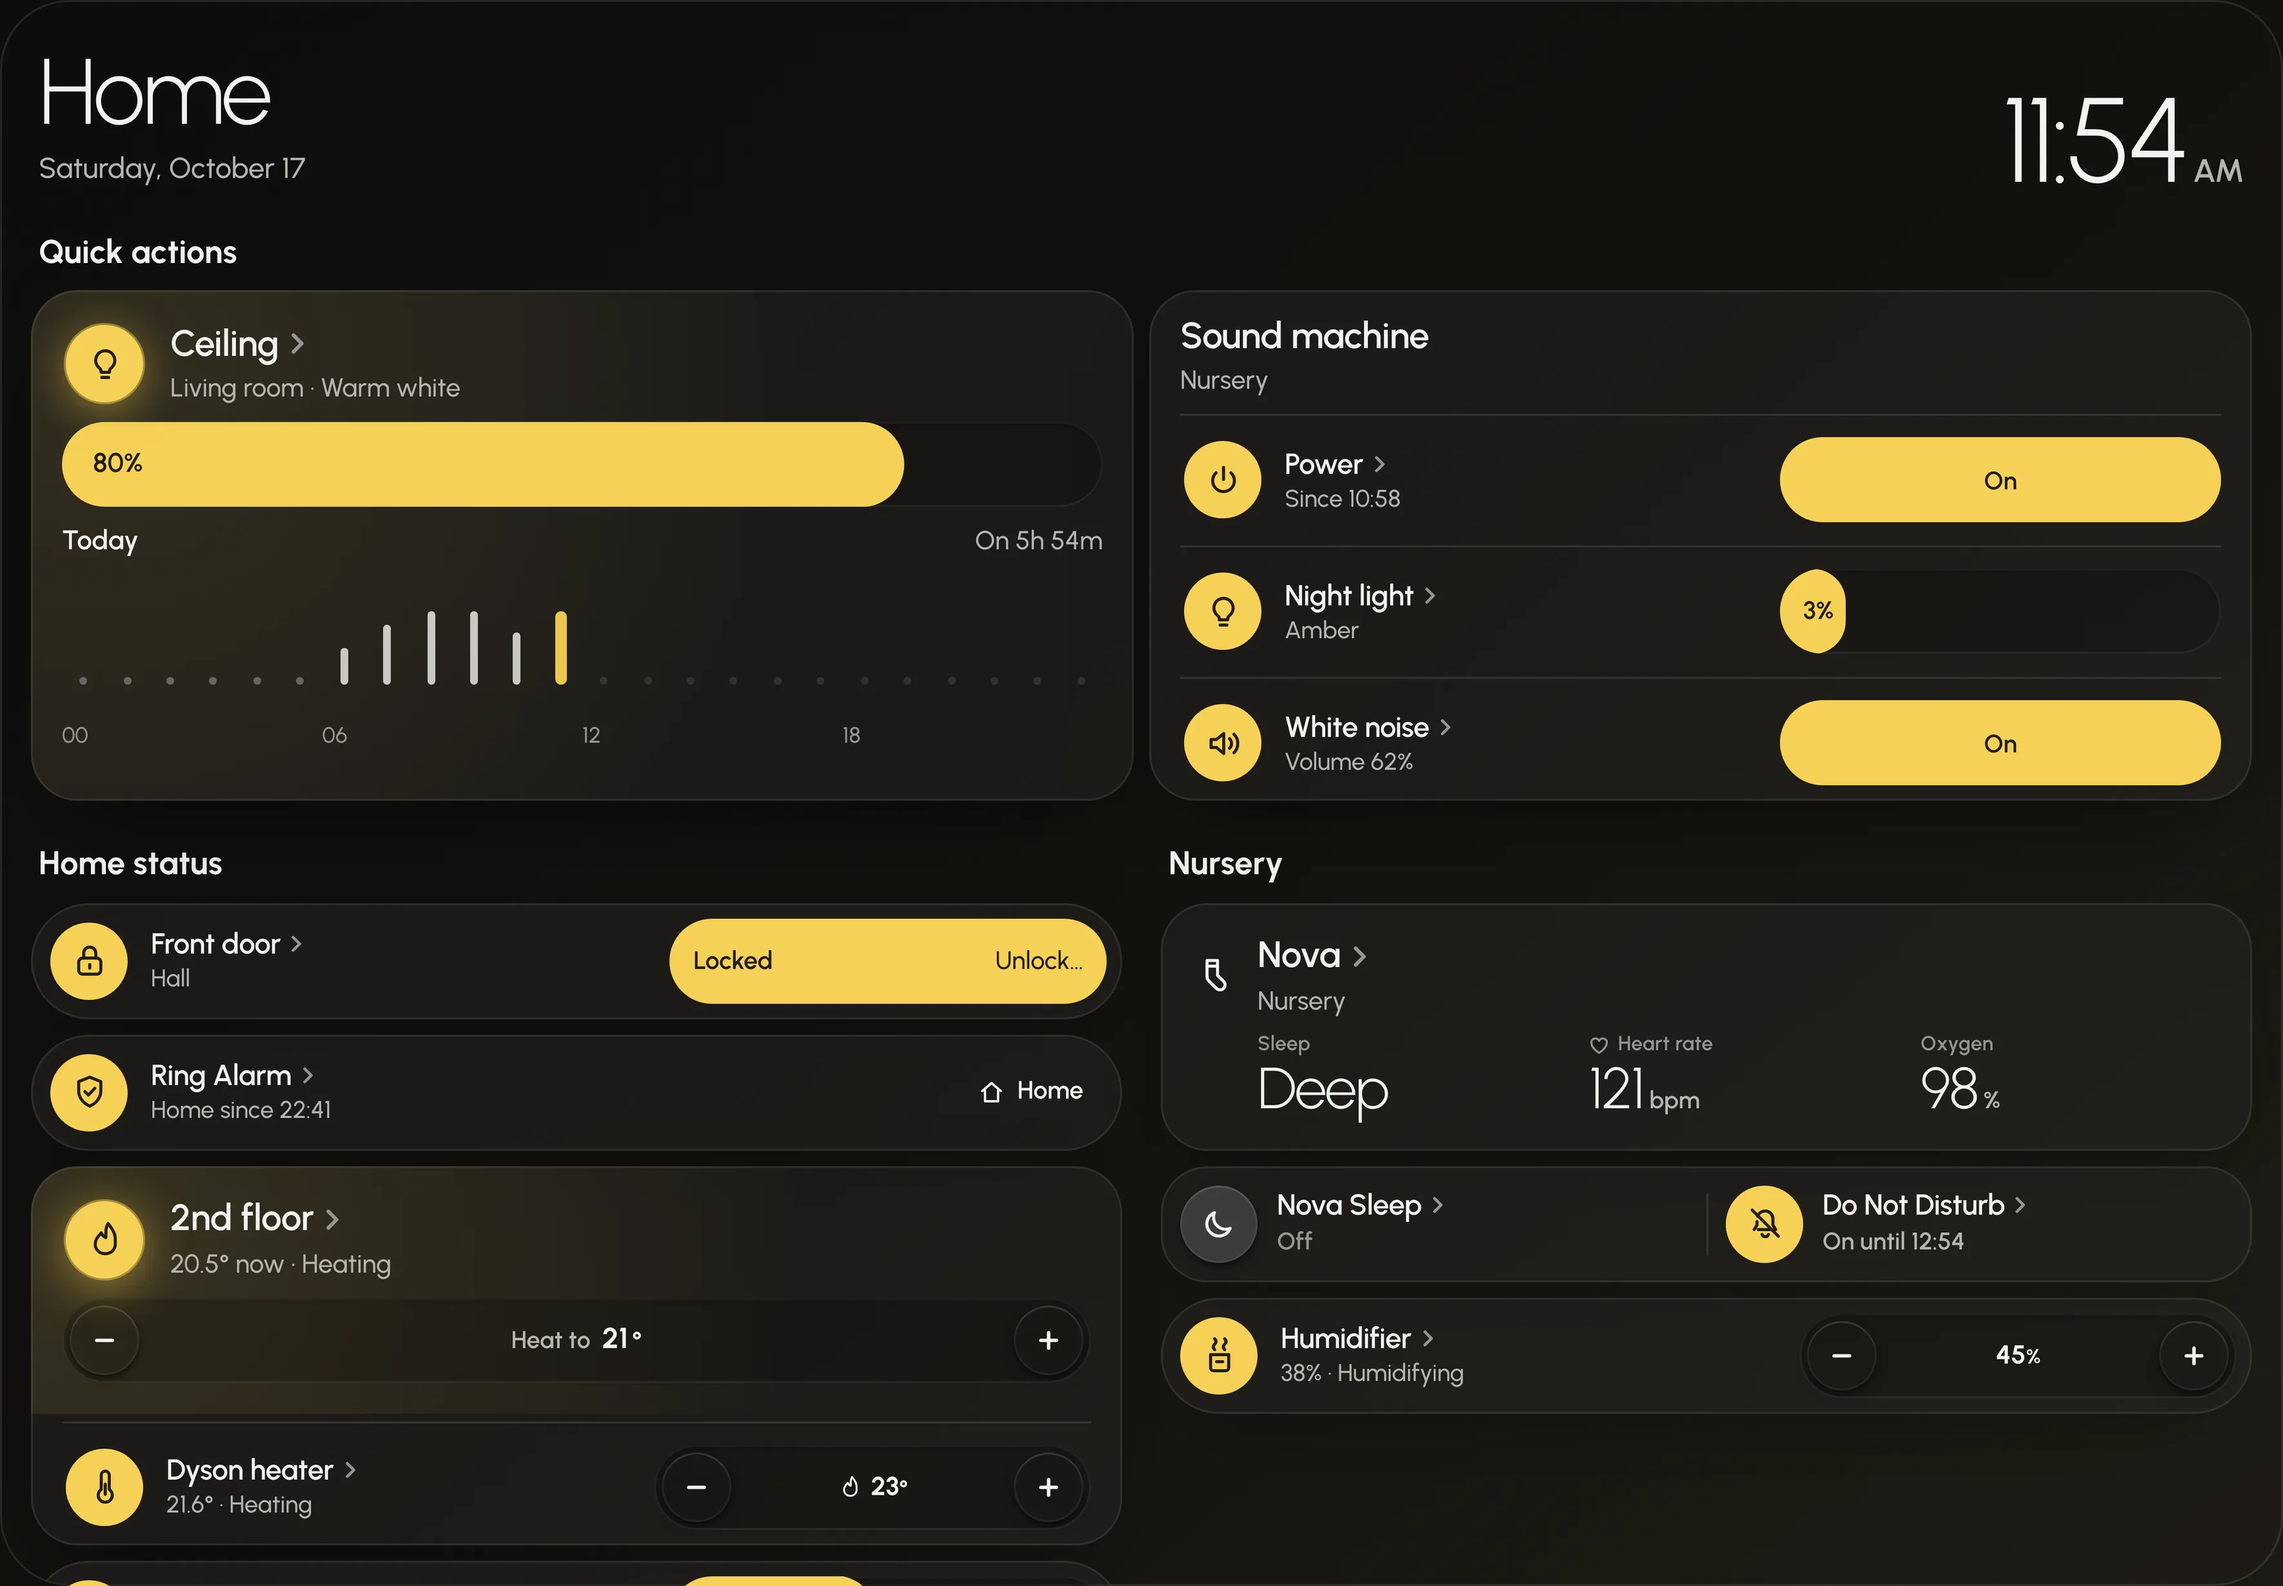
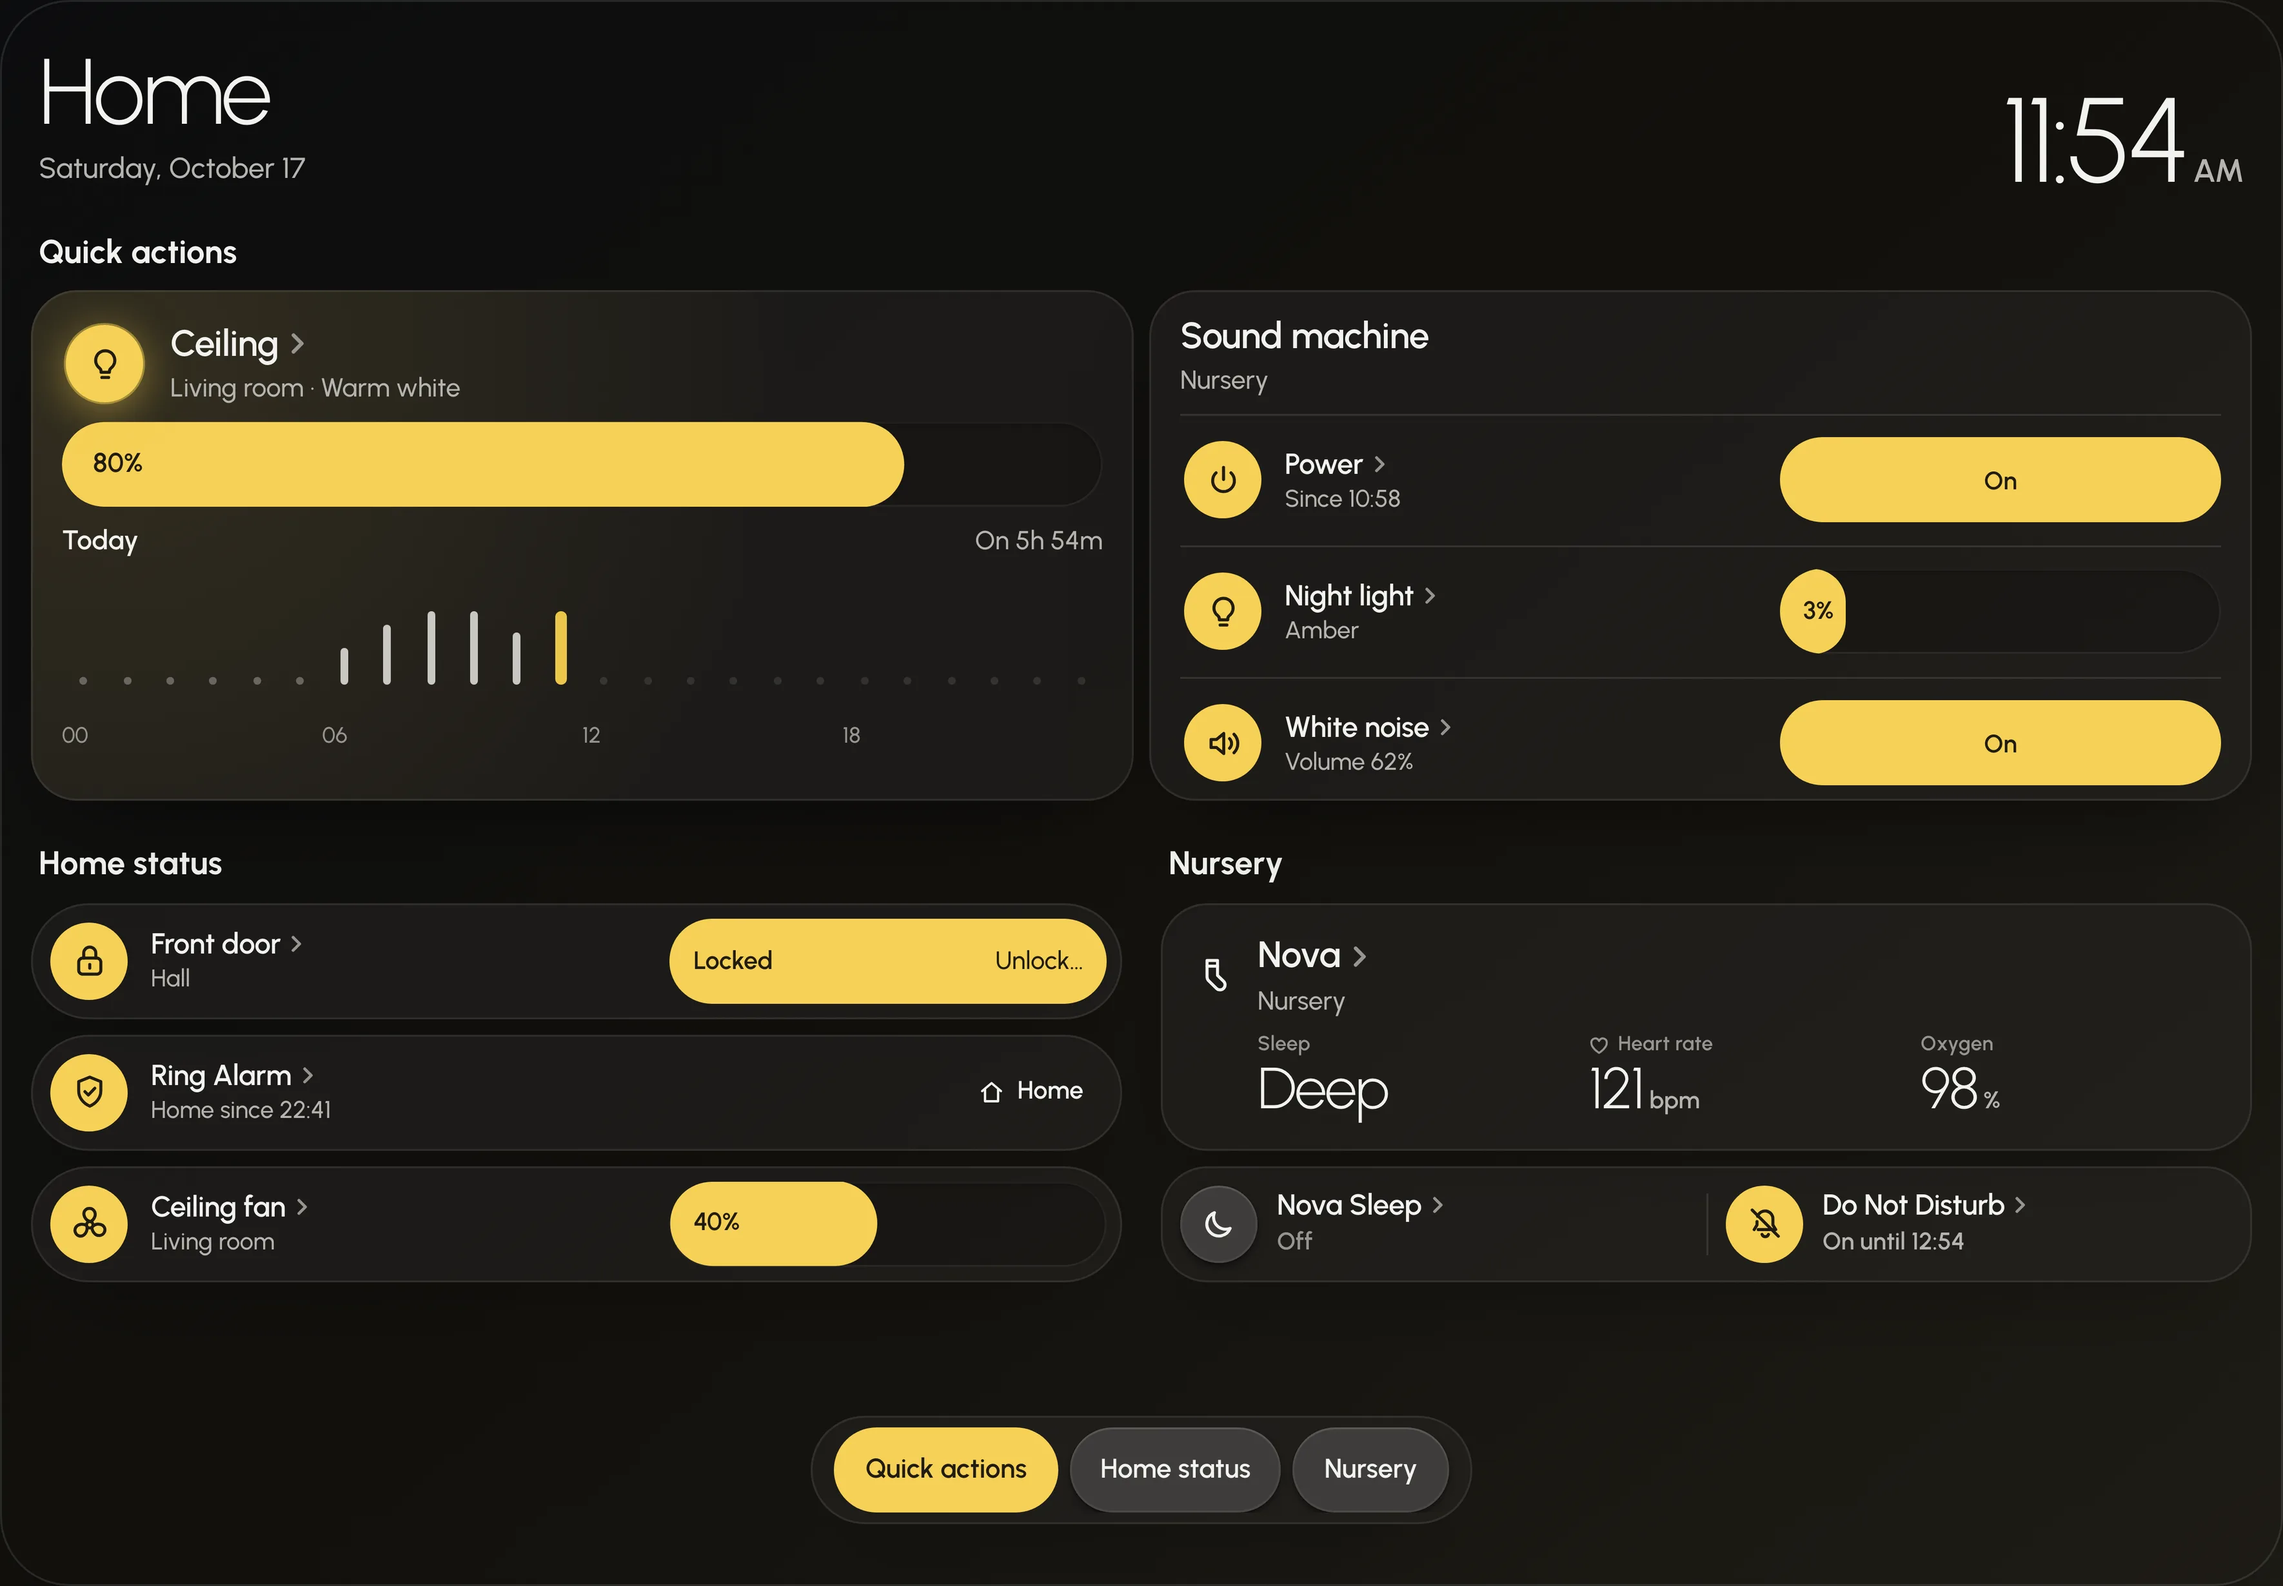
orb: rebuild the tablet and wall panel examples
Fit the tablet to 1180 × 820 with the nav docked, balance the wall panel's four columns and add the wall panel to Orb's Marketplace README.

diff --git a/src/skins/orb/dashboards/Examples.stories.tsx b/src/skins/orb/dashboards/Examples.stories.tsx
@@ -90,46 +90,43 @@ function PhoneDashboard() {
 
 export const Phone: Story = { render: () => <PhoneDashboard /> };
 
-/** Tablet, landscape: the hero light beside the nursery's sound machine; the house's status (the door, the alarm, the
-    upstairs heating as a lead bundle, the fan) beside the nursery; then the outside beside the room glance. */
-export const Tablet: Story = {
-  render: () => (
+const TABLET_SECTIONS = [["quick", "Quick actions"], ["status", "Home status"], ["nursery", "Nursery"]] as const;
+
+/**
+ * The tablet's page: the hero light beside the nursery's sound machine, then the house's status beside the nursery,
+ * each section one screen of cards at the top of the page. It ends where the screen does; the nav docked at the bottom
+ * names each section.
+ */
+function TabletDashboard() {
+  const page = useRef<HTMLDivElement>(null);
+  const [reading, jump] = useScrollSpy(page);
+  const nav = <NavBar items={TABLET_SECTIONS.map(([id, label]) => ({ key: id, label, kind: "section", current: reading === id, onSelect: () => jump(id) }))} />;
+  return (
     <Device label="Tablet, landscape" width={1180} height={820}>
-      <DashboardPage title="Home" now={NOW} showTime>
-        <Section title="Quick actions" columns={2}>
+      <DashboardPage title="Home" now={NOW} showTime pageRef={page} nav={nav} style={{ minHeight: "100%" }}>
+        <Section id="quick" title="Quick actions" columns={2}>
           <Light light="dimmable" footprint="featured" />
           <Bundle bundle="nursery" />
         </Section>
         <Columns columns={2}>
-          <Section title="Home status">
+          <Section id="status" title="Home status">
             <Lock seed="locked" footprint="compact" />
             <Alarm alarm="ring" readOnly footprint="compact" />
-            <Bundle bundle="upstairs" />
             <Fan seed="ceiling" footprint="compact" />
           </Section>
-          <Section title="Nursery">
+          <Section id="nursery" title="Nursery">
             <Owlet seed="deep" />
             <Bundle bundle="sleep" />
-            <Humidifier seed="on" name="Humidifier" area="Nursery" footprint="compact" />
-          </Section>
-        </Columns>
-        <Columns columns={2}>
-          <Section title="Outside">
-            <Weather weather="partly" />
-            <Light light="onOff" footprint="compact" />
-            <Cover cover="garage" footprint="compact" />
-          </Section>
-          <Section title="Rooms" columns={2}>
-            <Sensor sensor="living" />
-            <Sensor sensor="bedroom" />
-            <Sensor sensor="bathroom" />
-            <Sensor sensor="basement" />
           </Section>
         </Columns>
       </DashboardPage>
     </Device>
-  ),
-};
+  );
+}
+
+/** Tablet, landscape: the hero light beside the nursery's sound machine, the house's status beside the nursery, and the
+    nav docked at the bottom; the whole 1180 × 820 surface fits without scrolling. */
+export const Tablet: Story = { render: () => <TabletDashboard /> };
 
 /** Wall panel, landscape: one column per place, ordered actions, status, then glance. */
 export const WallPanel: Story = {
@@ -157,12 +154,15 @@ export const WallPanel: Story = {
             <Bundle bundle="nursery" />
             <Owlet seed="deep" />
             <Climate unit="nurseryDyson" footprint="compact" />
+            <Humidifier seed="on" name="Humidifier" area="Nursery" />
           </Section>
           <Section title="Outside">
-            <Weather weather="partly" />
+            <Weather weather="rain" />
+            <Sensor sensor="outdoor" name="Air" />
             <Lock seed="locked" footprint="compact" />
             <Alarm alarm="ring" readOnly footprint="compact" />
             <Cover cover="garage" footprint="compact" />
+            <Cover cover="gate" footprint="compact" />
             <Light light="onOff" footprint="compact" />
           </Section>
         </Columns>

diff --git a/docs/scripts/screenshots.js b/docs/scripts/screenshots.js
@@ -4,10 +4,10 @@
  * at four device pixels per CSS pixel and kept at three or more, so they stay sharp on a high-density screen at the
  * largest size the site shows them (the pages give each a srcset, so a smaller screen downloads less):
  *
- * - `src/assets/skins/<device>-<skin>-<look>.webp`: each skin's phone and tablet examples, and Field's wall panel, the
- *   screen alone, at three times the device's width. The home page shows the phone's while the live story loads, and
- *   in its place where the story can't run; the skins' Marketplace READMEs open on the tablet's, and Field's carries the
- *   wall panel's below it.
+ * - `src/assets/skins/<device>-<skin>-<look>.webp`: each skin's phone and tablet examples, and its wall panel, the
+ *   screen alone, at three times the device's width. The home page shows the phone's while the live story loads, and in
+ *   its place where the story can't run; each skin's Marketplace README opens on the tablet's and carries the wall
+ *   panel's below it.
  * - `src/assets/kinds/<kind>-<look>.webp`: one card of each kind of entity, Orb's tile over Field's module, at four
  *   times its 400 × 500 band, for the home page's list of what the skins draw.
  * - `src/assets/layout/composition-<device>-<look>.webp`: the Orb Lovelace card's Composition stories on a tablet and a
@@ -112,15 +112,17 @@ try {
     }
   }
 
-  /** Field's wall panel, the second picture its Marketplace README carries: the 1280 × 800 screen alone. */
-  for (const [look, globals] of Object.entries(LOOKS.field)) {
-    await page.setViewportSize({ width: 1400, height: 900 });
-    await open("field-dashboards-examples--wall-panel", globals);
-    const screen = page.locator("#storybook-root figure > div").first();
-    const { width } = await screen.boundingBox();
-    const shot = await screen.screenshot({ animations: "disabled" });
-    await sharp(shot).resize({ width: Math.round(width * KEPT) }).webp({ quality: 82 }).toFile(join(assets, "skins", `wall-panel-field-${look}.webp`));
-    console.log(`wrote skins/wall-panel-field-${look}.webp`);
+  /** Each skin's wall panel, the second picture its Marketplace README carries: the 1280 × 800 screen alone. */
+  for (const [skin, story] of [["orb", "orb-dashboards-examples--wall-panel"], ["field", "field-dashboards-examples--wall-panel"]]) {
+    for (const [look, globals] of Object.entries(LOOKS[skin])) {
+      await page.setViewportSize({ width: 1400, height: 900 });
+      await open(story, globals);
+      const screen = page.locator("#storybook-root figure > div").first();
+      const { width } = await screen.boundingBox();
+      const shot = await screen.screenshot({ animations: "disabled" });
+      await sharp(shot).resize({ width: Math.round(width * KEPT) }).webp({ quality: 82 }).toFile(join(assets, "skins", `wall-panel-${skin}-${look}.webp`));
+      console.log(`wrote skins/wall-panel-${skin}-${look}.webp`);
+    }
   }
 
   /** The same YAML drawn at two widths: the story's page, as wide as its device, down to its last row. */

diff --git a/hacs/orb-dashboard/README.md b/hacs/orb-dashboard/README.md
@@ -3,11 +3,15 @@
 A dashboard for Home Assistant: soft, round cards read at a glance. Every supported device in a room-by-room page,
 laid out for you and kept up to date, on a phone, a tablet or a wall panel.
 
-![Orb on a tablet](https://raw.githubusercontent.com/Krystosterone/dashhaus/main/docs/src/assets/skins/tablet-orb-light.webp)
+![Orb on a tablet, quick actions and home status](https://raw.githubusercontent.com/Krystosterone/dashhaus/main/docs/src/assets/skins/tablet-orb-light.webp)
 
 Each card has a round button for its main action. Lights, climate and covers get a slider or stepper beside it, and
 readings show a big figure. The yellow accent shows what is on, and a dashed outline means a device is unavailable.
 Tap a card's name, or press and hold its button, to open more in a sheet.
+
+On a wall panel, the same house in one column per place:
+
+![Orb on a wall panel, a column per place](https://raw.githubusercontent.com/Krystosterone/dashhaus/main/docs/src/assets/skins/wall-panel-orb-light.webp)
 
 ## Install
 

diff --git a/changes/orbs-tablet-example-fits-its-screen-and-docks.md b/changes/orbs-tablet-example-fits-its-screen-and-docks.md
@@ -1,0 +1,4 @@
+---
+type: internal
+---
+Orb's tablet example fits its screen and docks the nav, its wall panel balances its four columns, and its Marketplace README shows the wall panel too.
